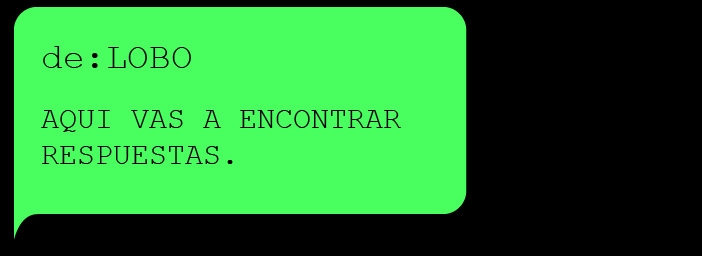
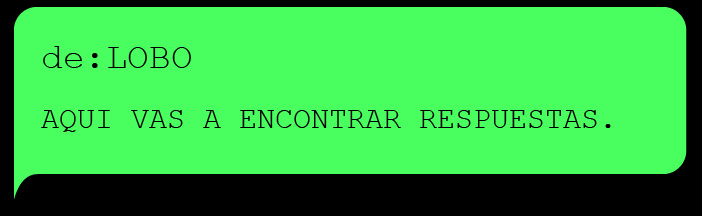
dom

diff --git a/cap333.html b/cap333.html
@@ -1,0 +1,72 @@
+
+<!DOCTYPE html>
+<html lang="en">
+
+<head>
+    <style>
+        body {
+        background-color: #000000
+        }
+        </style>
+  <meta charset="utf-8">
+  <meta name="viewport" content="width=device-width, initial-scale=1, shrink-to-fit=no">
+  <meta name="description" content="">
+  <meta name="author" content="">
+
+  <title>LOBO CHAT</title>
+
+  <!-- Bootstrap core CSS -->
+  <link href="vendor/bootstrap/css/bootstrap.css" rel="stylesheet">
+
+  <!-- Custom styles for this template -->
+  <link href="css/blog-home.css" rel="stylesheet">
+
+</head>
+
+<body>
+
+  <!-- Navigation -->
+  <nav class="navbar navbar-expand-lg  bg-dark fixed-top">
+    <div class="container">
+      <a class="navbar-brand" href="#"><img src="./img/lobo.gif"></a>
+      <button class="navbar-toggler" type="button" data-toggle="collapse" data-target="#navbarResponsive" aria-controls="navbarResponsive" aria-expanded="false" aria-label="Toggle navigation">
+        <span class="navbar-toggler-icon"></span>
+      </button>
+      <div class="collapse navbar-collapse" id="navbarResponsive">
+        <ul class="navbar-nav ml-auto">
+
+        </ul>
+      </div>
+    </div>
+  </nav>
+
+  <!-- Page Content -->
+  <div class="container">
+
+  <div class="row justify-content-center">
+        
+             <!-- Blog Entries Column -->
+      <div class="col-md-8">
+          <h1 class="my-4">
+          <small>.
+            3
+            3
+          </small>
+        </h1>
+
+            <div class="card mb-4">
+              <img class="card-img-top" src="img/space.jpg">
+            </div>
+        <!-- Blog Post -->
+        <div class="card mb-4">
+          <img class="card-img-top" src="img/cap333/01.jpg">
+        </div>
+
+
+      </div>
+
+     
+
+</body>
+
+</html>
